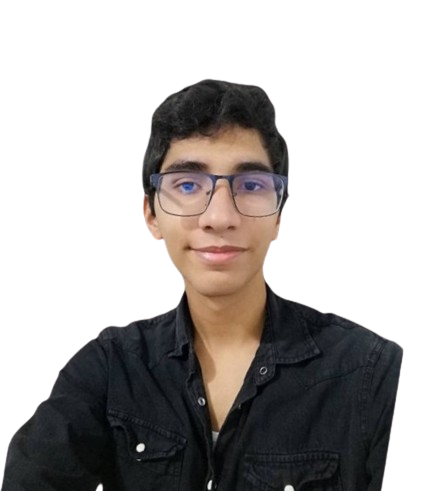
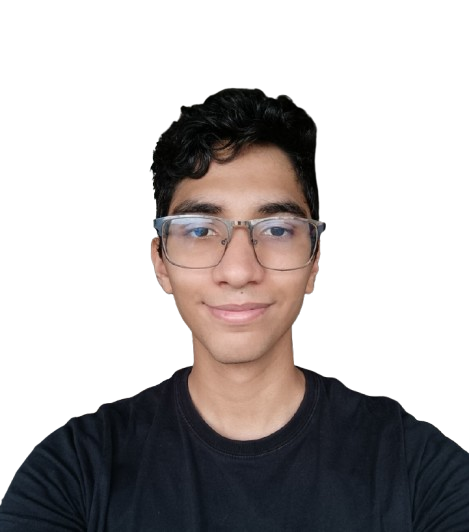
Changed: home photo and some styles

Changed region(s): [[0.0, 0.1527, 1.0, 1.0], [0.1781, 0.8859, 0.2968, 1.0], [0.2968, 0.8859, 0.4155, 0.9776]]

diff --git a/src/components/Home/Home.css b/src/components/Home/Home.css
@@ -8,11 +8,11 @@
     padding-top: 40px;
 }
 .presentation img{
-    width: 420px;
-    height: 450px;
+    width: 380px;
+    height: 420px;
     border-radius: 50%;
     padding-left: 40px;
-    padding-bottom: 35px;
+    padding-bottom: 55px;
 }
 .imgPresentation{
     background-color: rgb(67, 33, 101);
